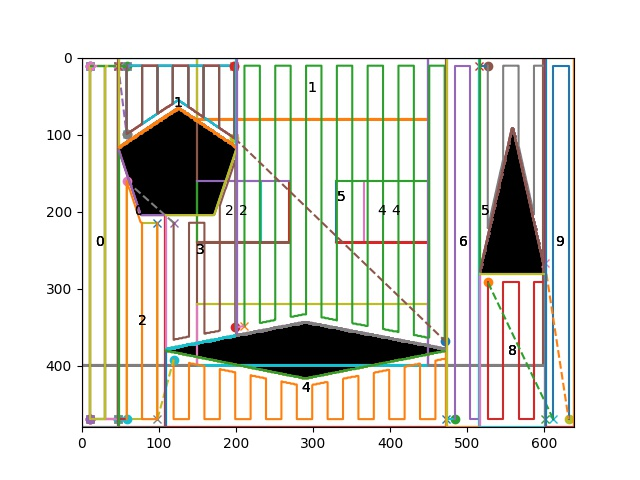
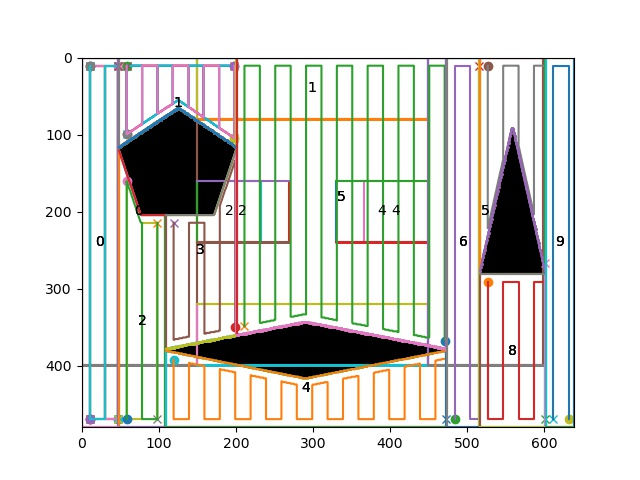
testing paths

diff --git a/cpp/bsd.py b/cpp/bsd.py
@@ -15,7 +15,7 @@ def find_connectivity(slice: np.array):
     Args:
         slice (np.array): array of booleans
     Returns:
-        segments (Tuple[int, int]): start idx and legth of the segment
+        segments (Tuple[int, int]): start idx and end of the segment
     """
     segments = []
     # segments will be identified by their starting idx and legth
@@ -92,7 +92,8 @@ def create_mask(binary_image: np.array):
 
         else:
             current_cells = [0] * num_segments
-            adj_matrix = find_slices_adjacency(previous_segments, current_segments)
+            adj_matrix = find_slices_adjacency(
+                previous_segments, current_segments)
 
             for i in range(num_previous_segments):
                 # simply connected 1 to 1
@@ -116,7 +117,7 @@ def create_mask(binary_image: np.array):
 
         for i in range(len(current_cells)):
             mask[
-                current_segments[i][0] : current_segments[i][1], col_id
+                current_segments[i][0]: current_segments[i][1], col_id
             ] = current_cells[i]
 
         previous_cells = current_cells
@@ -127,6 +128,16 @@ def create_mask(binary_image: np.array):
 
 
 def create_path(cell: Cell, start_corner, coverage_radius: int):
+    """Create a path given the set of segments to cover the space. 
+
+        Args:
+            cell (Cell): cell to be covered
+            start_corner (Tuple[int, int]): corner of the workspace where the path starts
+            coverage_radius (int): radius of the workspace
+
+        Returns:
+            path (np.array): path in SE3 
+        """
     if start_corner == 0 or start_corner == 3:
         vertical_dir = "up"
     else:
@@ -142,17 +153,19 @@ def create_path(cell: Cell, start_corner, coverage_radius: int):
     path = []
 
     while not done:
-        y_min = min(cell.bottom[x_current] + coverage_radius, cell.top[x_current])
-        y_max = max(cell.top[x_current] - coverage_radius, cell.bottom[x_current])
+        y_min = min(cell.bottom[x_current] +
+                    coverage_radius, cell.top[x_current])
+        y_max = max(cell.top[x_current] - coverage_radius,
+                    cell.bottom[x_current])
 
         # add vertical component to the path
         if vertical_dir == "down":
-            path.append((x_current, y_max))
-            path.append((x_current, y_min))
+            path.append((x_current, y_max, 0))
+            path.append((x_current, y_min, 0))
             vertical_dir = "up"
         else:
-            path.append((x_current, y_min))
-            path.append((x_current, y_max))
+            path.append((x_current, y_min, np.pi))
+            path.append((x_current, y_max, np.pi))
             vertical_dir = "down"
 
         # check if another segment fit in the cell
@@ -166,10 +179,12 @@ def create_path(cell: Cell, start_corner, coverage_radius: int):
                 if vertical_dir == "down":
                     # print("options ", cell.top[x] - coverage_radius, cell.bottom[x])
                     y = max(cell.top[x] - coverage_radius, cell.bottom[x])
+                    yaw = 0
                 else:
                     # print("bottom options ")
                     y = min(cell.bottom[x] + coverage_radius, cell.top[x])
-                path.append((x, y))
+                    yaw = np.pi
+                path.append((x, y, yaw))
 
         else:
             done = True
@@ -194,7 +209,8 @@ def path_length(path: List[Tuple[int, int]]) -> int:
     length = 0
     for i in range(len(path) - 1):
         length += np.sqrt(
-            (path[i][0] - path[i + 1][0]) ** 2 + (path[i][1] - path[i + 1][1]) ** 2
+            (path[i][0] - path[i + 1][0]) ** 2 +
+            (path[i][1] - path[i + 1][1]) ** 2
         )
     return length
 
@@ -298,7 +314,8 @@ def create_global_adj_matrix(binary_image: np.ndarray) -> np.ndarray:
         for i in range(len(previous_segments)):
             for j in range(len(current_segments)):
                 if adj_matrix[i, j]:
-                    idx_i = decomposed_image[previous_segments[i][0], col_id - 1]
+                    idx_i = decomposed_image[previous_segments[i]
+                                             [0], col_id - 1]
                     idx_j = decomposed_image[current_segments[j][0], col_id]
                     if idx_i != idx_j:
                         graph[idx_i, idx_j] = 1
@@ -313,17 +330,16 @@ def create_global_adj_matrix(binary_image: np.ndarray) -> np.ndarray:
 
 def get_directed_global_adj_matrix(binary_image: np.ndarray) -> np.ndarray:
     """Creates a directed graph representing the global connectivity of the workspace cells
-    
+
     Args:
         binary_image (np.ndarray): images or 0 and 1, encoding areas belonging
-    
+
     Returns:
         graph: directed graph of the cells connectivity
-    
+
     """
     decomposed_image = create_mask(binary_image)
     cells = Cell.from_image(decomposed_image)
-    
 
     directed_adj_matrix = np.zeros((len(cells), len(cells)))
     # cells only connects through corners, as those are the end points of the motion primitives
@@ -333,24 +349,25 @@ def get_directed_global_adj_matrix(binary_image: np.ndarray) -> np.ndarray:
             adj_cell_id = get_adj_cell_to_corner(cells, cell.cell_id, corner)
             if adj_cell_id is not None:
                 directed_adj_matrix[cell.cell_id, adj_cell_id] = 1
-    
+
     return directed_adj_matrix, decomposed_image
 
 
 def corner_adjencency(cell_1: Cell, cell_2: Cell) -> bool:
     """Check if first cell is connected to second cell via a corner
-    
+
     Args:
         cell_1 (Cell): cell 1
         cell_2 (Cell): cell 2
-    
+
     Returns:
         adj: True if cell 1 is connected to cell 2 via a corner
-    
+
     """
     adj = False
     for corner in range(4):
-        adj_cell_id = get_adj_cell_to_corner([cell_1, cell_2], cell_1.cell_id, corner)
+        adj_cell_id = get_adj_cell_to_corner(
+            [cell_1, cell_2], cell_1.cell_id, corner)
         if adj_cell_id is not None:
             adj = True
     return adj
@@ -441,7 +458,7 @@ def corner_adjencency(cell_1: Cell, cell_2: Cell) -> bool:
 
 
 def get_adj_cell_to_corner(cells: List[Cell], cell_id: int, corner_id: int
-) -> int:
+                           ) -> int:
     """Returns the cell id adjent to the corner of the current cell
 
     Args:
@@ -518,7 +535,8 @@ def dist_intra_cells(
 ):
     """Compute the distance between two points located in two adjancent cells"""
 
-    path_1 = create_path(cell_1, corner_start_1, coverage_radius=coverage_radius)
+    path_1 = create_path(cell_1, corner_start_1,
+                         coverage_radius=coverage_radius)
     length_path_1 = path_length(path_1)
     corner_end_1 = get_path_end_corner(path_1, corner_start_1)
     adj_cell_id = get_adj_cell_to_corner(

diff --git a/tests/bsd_test.py b/tests/bsd_test.py
@@ -7,6 +7,8 @@ import matplotlib.image as mpimg
 from cpp.helpers import *
 
 # tests for connectivy
+
+
 def test_fully_connected():
     slice = np.ones((10, 1))
     segments = find_connectivity(slice)
@@ -212,7 +214,8 @@ def test_directed_global_adj_matrix_concave_obstacles():
 
     # original image is black and white anyway
     graph_adj_matrix, decomposed_image = create_global_adj_matrix(image)
-    directed_global_adj_matrix, decomposed_image = get_directed_global_adj_matrix(image)
+    directed_global_adj_matrix, decomposed_image = get_directed_global_adj_matrix(
+        image)
     cells = Cell.from_image(decomposed_image)
 
     assert np.isclose(graph_adj_matrix[0, 1], directed_global_adj_matrix[0, 1])
@@ -224,8 +227,10 @@ def test_directed_global_adj_matrix_concave_obstacles():
     assert np.isclose(graph_adj_matrix[3, 4], directed_global_adj_matrix[3, 4])
     assert np.isclose(graph_adj_matrix[4, 3], directed_global_adj_matrix[4, 3])
     assert np.isclose(graph_adj_matrix[4, 5], directed_global_adj_matrix[4, 5])
-    assert not np.isclose(graph_adj_matrix[5, 4], directed_global_adj_matrix[5, 4])
-    assert not np.isclose(graph_adj_matrix[0, 2], directed_global_adj_matrix[0, 2])
+    assert not np.isclose(
+        graph_adj_matrix[5, 4], directed_global_adj_matrix[5, 4])
+    assert not np.isclose(
+        graph_adj_matrix[0, 2], directed_global_adj_matrix[0, 2])
     assert np.isclose(graph_adj_matrix[2, 0], directed_global_adj_matrix[2, 0])
 
     plot_cells(cells)
@@ -421,7 +426,7 @@ def test_global_path():
     image = mpimg.imread("data/test/map.jpg")
     # original image is black and white anyway
     binary_image = image[:, :, 0] > 150
-    graph_adj_matrix, _= create_global_adj_matrix(binary_image)
+    graph_adj_matrix, _ = create_global_adj_matrix(binary_image)
     graph_adj_dict = adj_matrix_to_dict(graph_adj_matrix)
 
     graph = Graph(graph_adj_dict)
@@ -444,14 +449,18 @@ def test_global_path():
     visited_simple = [1, 0, 2]
     path_0 = create_path(cells[1], 0, coverage_radius=10)
 
-
     # shortest path
     dp = shortest_path(
         graph_adj_matrix, cells=cells, cell_sequence=visited, coverage_radius=10
     )
     path = reconstruct_path(dp, cells, visited, coverage_radius=10)
     plot_cells(cells, show=False)
-    plot_global_path(path, show=False)
+    # remove last element of the tuple for each element in the segments that make up the path
+    simple_path = []
+    for cell_path in path:
+        simple_path.append([p[:-1] for p in cell_path])
+
+    plot_global_path(simple_path, show=False)
     plt.imshow(image)
     plt.savefig("logs/images/test_path.png")
 
@@ -483,14 +492,23 @@ def test_small_global_path():
     visited_simple = [1, 0, 2]
     path_0 = create_path(cells[1], 0, coverage_radius=10)
 
-
     # shortest path
     dp = shortest_path(
         graph_adj_matrix, cells=cells, cell_sequence=visited_simple, coverage_radius=10
     )
     path = reconstruct_path(dp, cells, visited_simple, coverage_radius=10)
     plot_cells(cells, show=False)
-    plot_global_path(path, show=False)
+    simple_path = []
+    for cell_path in path:
+        simple_path.append([p[:-1] for p in cell_path])
+    plot_global_path(simple_path, show=False)
+    # remove nested lists and flatten the path
+    flattened_path = [item for sublist in path for item in sublist]
+    grid_size = [30, 30]
+    resolution = np.shape(image)
+    path_in_world = transform_coordinates(
+        flattened_path, grid_size, resolution)
+    write_path_to_csv(path_in_world, "logs/images/test_path.csv")
     plt.imshow(image)
     plt.savefig("logs/images/test_path.png")
 
@@ -526,4 +544,4 @@ def test_plotter():
 
 if __name__ == "__main__":
     # test_directed_global_adj_matrix_concave_obstacles()
-    test_find_connectivity()
+    test_global_path()

diff --git a/cpp/helpers.py b/cpp/helpers.py
@@ -45,6 +45,29 @@ def plot_global_path(path: List[List[Tuple[int, int]]], show=True):
     if show:
         plt.show()
 
+def write_path_to_csv(path: List[List[Tuple[int, int, int]]], filename: str):
+    with open(filename, "w") as f:
+        for i in range(len(path)):
+            f.write(str(path[i][0]) + "," + str(path[i][1]) + "," + str(path[i][2]) + "\n")
+
+
+def transform_coordinates(path: List[Tuple[int, int, int]], grid_size: Tuple[float, float], resolution: Tuple[int, int]):
+    """Map the path x and y coordinates from image space to the physical space
+    Args:
+        path: nested list of (x, y, yaw) cooridnates 
+        grid_size: size of the grid in meters
+        resolution: number of pixels in the x and y dimensions
+    Returns:
+        transformed_path: nested list of (x, y, yaw) cooridnates 
+    """
+    transformed_path = []
+    for i in range(len(path)):
+        x = path[i][0] * grid_size[0] / resolution[0]
+        y = path[i][1] * grid_size[1] / resolution[1]
+        yaw = path[i][2]
+        transformed_path.append((x, y, yaw))
+    return transformed_path
+
 
 def generate_H_map(image_size: Tuple[int, int], invert=False) -> np.ndarray:
     """Generate a occupancy map with an obstacle that has the shape of the letter H
